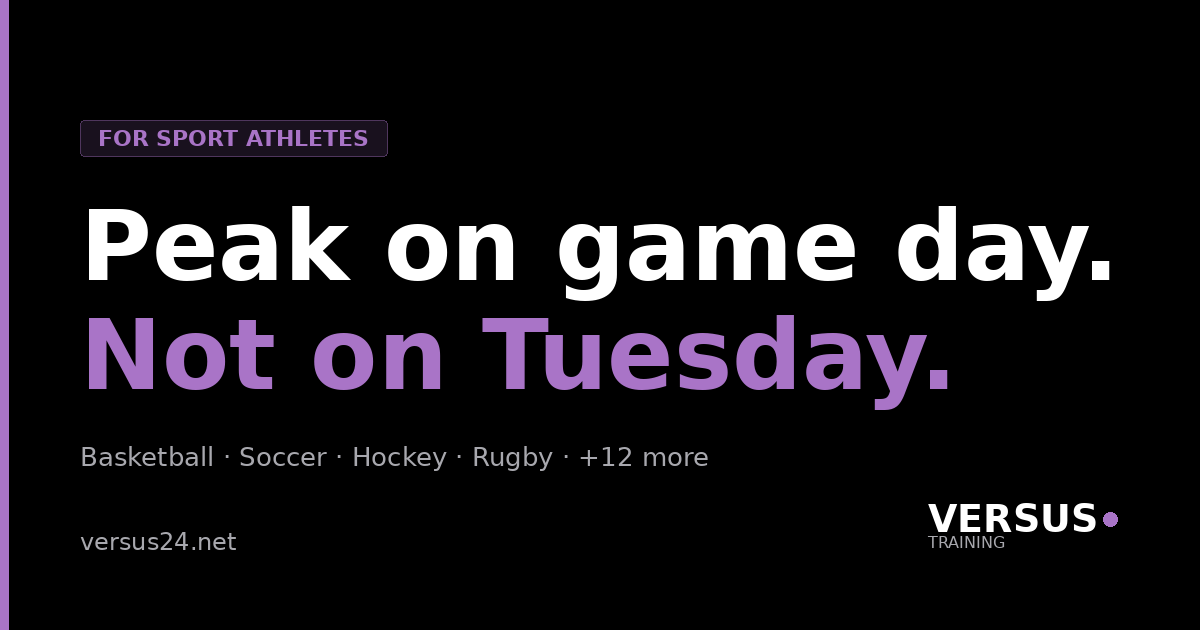
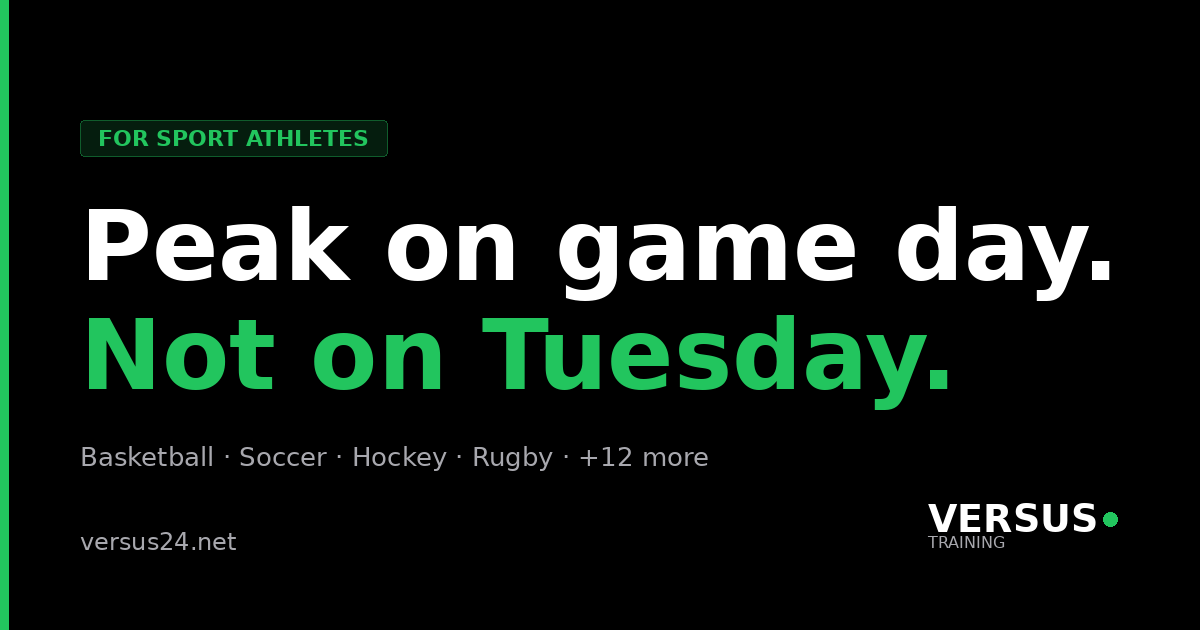
Sport modality color: purple -> grass green #22C55E
Match the app's ModalityColor.sport exactly: CSS --sport/--sport-dim,
the homepage sport pills, the /sports hero tint, and the OG generator
accent, with og-sports.png regenerated in the new color.

Claude-Session: https://claude.ai/code/session_01S6i466tBU1cATf2nRdJG8w

diff --git a/index.html b/index.html
@@ -362,9 +362,9 @@
               <div style="font-family:var(--font-mono);font-size:36px;font-weight:700;color:var(--sport)">Game Day</div>
               <div style="font-size:12px;color:var(--text-muted);text-transform:uppercase;letter-spacing:.14em;margin-top:6px">2 days · readiness 82</div>
               <div style="display:flex;gap:8px;justify-content:center;margin-top:14px;flex-wrap:wrap;max-width:200px">
-                <span class="pill" style="color:var(--sport);background:var(--sport-dim);border-color:rgba(169,116,199,0.3);font-size:10px">Basketball</span>
-                <span class="pill" style="color:var(--sport);background:var(--sport-dim);border-color:rgba(169,116,199,0.3);font-size:10px">Soccer</span>
-                <span class="pill" style="color:var(--sport);background:var(--sport-dim);border-color:rgba(169,116,199,0.3);font-size:10px">Tennis</span>
+                <span class="pill" style="color:var(--sport);background:var(--sport-dim);border-color:rgba(34,197,94,0.3);font-size:10px">Basketball</span>
+                <span class="pill" style="color:var(--sport);background:var(--sport-dim);border-color:rgba(34,197,94,0.3);font-size:10px">Soccer</span>
+                <span class="pill" style="color:var(--sport);background:var(--sport-dim);border-color:rgba(34,197,94,0.3);font-size:10px">Tennis</span>
               </div>
             </div>
           </div>

diff --git a/src/pages/index.html b/src/pages/index.html
@@ -328,9 +328,9 @@
               <div style="font-family:var(--font-mono);font-size:36px;font-weight:700;color:var(--sport)">Game Day</div>
               <div style="font-size:12px;color:var(--text-muted);text-transform:uppercase;letter-spacing:.14em;margin-top:6px">2 days · readiness 82</div>
               <div style="display:flex;gap:8px;justify-content:center;margin-top:14px;flex-wrap:wrap;max-width:200px">
-                <span class="pill" style="color:var(--sport);background:var(--sport-dim);border-color:rgba(169,116,199,0.3);font-size:10px">Basketball</span>
-                <span class="pill" style="color:var(--sport);background:var(--sport-dim);border-color:rgba(169,116,199,0.3);font-size:10px">Soccer</span>
-                <span class="pill" style="color:var(--sport);background:var(--sport-dim);border-color:rgba(169,116,199,0.3);font-size:10px">Tennis</span>
+                <span class="pill" style="color:var(--sport);background:var(--sport-dim);border-color:rgba(34,197,94,0.3);font-size:10px">Basketball</span>
+                <span class="pill" style="color:var(--sport);background:var(--sport-dim);border-color:rgba(34,197,94,0.3);font-size:10px">Soccer</span>
+                <span class="pill" style="color:var(--sport);background:var(--sport-dim);border-color:rgba(34,197,94,0.3);font-size:10px">Tennis</span>
               </div>
             </div>
           </div>

diff --git a/sports/index.html b/sports/index.html
@@ -57,7 +57,7 @@
   :root { --segment: var(--sport); --segment-dim: var(--sport-dim); }
   .segment-hero h1 .accent-segment { color: var(--segment); }
   .segment-hero .eyebrow { color: var(--segment); }
-  .segment-hero { background: radial-gradient(ellipse at top, rgba(169,116,199,0.10), transparent 60%); }
+  .segment-hero { background: radial-gradient(ellipse at top, rgba(34,197,94,0.10), transparent 60%); }
 </style>
 </head>
 <body>

diff --git a/src/pages/sports.html b/src/pages/sports.html
@@ -38,7 +38,7 @@
   :root { --segment: var(--sport); --segment-dim: var(--sport-dim); }
   .segment-hero h1 .accent-segment { color: var(--segment); }
   .segment-hero .eyebrow { color: var(--segment); }
-  .segment-hero { background: radial-gradient(ellipse at top, rgba(169,116,199,0.10), transparent 60%); }
+  .segment-hero { background: radial-gradient(ellipse at top, rgba(34,197,94,0.10), transparent 60%); }
 </style>
 </head>
 <body>

diff --git a/assets/style.css b/assets/style.css
@@ -31,8 +31,8 @@
   --endurance-dim: rgba(79, 163, 240, 0.13);
   --mobility: #2BC8DC;
   --mobility-dim: rgba(43, 200, 220, 0.13);
-  --sport: #A974C7;
-  --sport-dim: rgba(169, 116, 199, 0.13);
+  --sport: #22C55E;
+  --sport-dim: rgba(34, 197, 94, 0.13);
 
   /* Text */
   --text: #FFFFFF;

diff --git a/scripts/build_og.py b/scripts/build_og.py
@@ -19,7 +19,7 @@ GOLD = (212, 168, 67)       # --gold (D4A843)
 COMBAT = (224, 70, 62)      # --combat
 STRENGTH = (228, 130, 24)   # --strength
 ENDURANCE = (79, 163, 240)  # --endurance
-SPORT = (169, 116, 199)     # --sport
+SPORT = (34, 197, 94)       # --sport
 
 FONT_DIR = "/usr/share/fonts/truetype/dejavu"
 F_BOLD = f"{FONT_DIR}/DejaVuSans-Bold.ttf"
